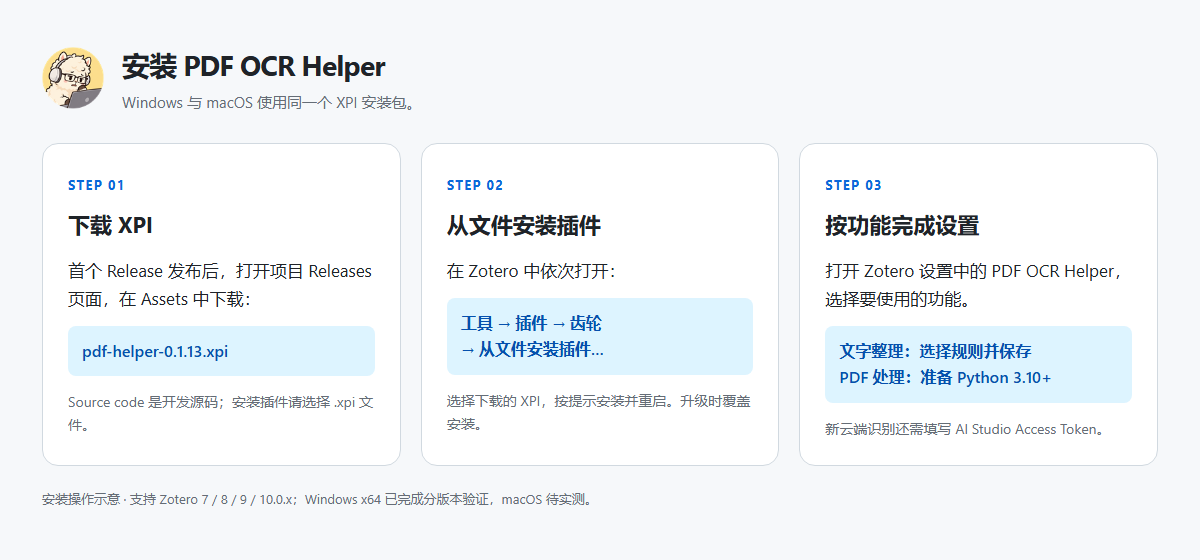
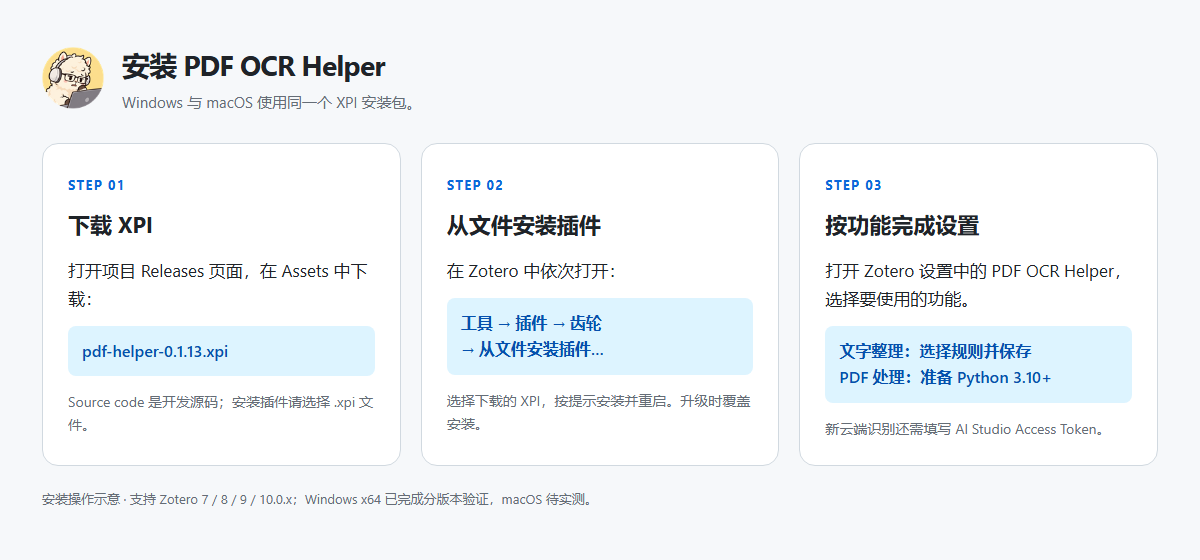
Finalize 0.1.13 release documentation

Changed region(s): [[0.0617, 0.4554, 0.3083, 0.5464]]

diff --git a/docs/COMMUNITY-SUBMISSION.md b/docs/COMMUNITY-SUBMISSION.md
@@ -1,6 +1,6 @@
 # Zotero 中文社区收录材料（待人工确认与提交）
 
-核实日期：2026-10-23。基础源码已推送至 GitHub 仓库，本次模板、兼容适配和文档修改尚未提交或推送；尚未发布 GitHub Release，未发出社区收录 Issue、PR 或正式申请。正式投稿前需再次复核下述社区流程。
+社区流程核实日期：2026-10-23。发布准备进度：2026-10-24。模板、兼容适配及教程等源码已推送至 GitHub，当前进行首发说明与资产定稿；GitHub Release 尚待维护者创建，未发出社区收录 Issue、PR 或正式申请。正式投稿前需再次复核下述社区流程。
 
 ## 核实到的实际流程
 
@@ -34,15 +34,15 @@
 
 **适用环境**：manifest 声明 Zotero 7.0–10.0.*；Windows x64 已实测 7.0.32、8.0.4、9.0.6、10.0.6。macOS Intel/Apple Silicon 为实现目标，原生验收尚未完成。PDF 处理需已安装 64 位 Python 3.10+，原流程建立独立依赖环境；仅文本整理和检查更新不需 Python。不能宣传为整个插件免 Python、离线 OCR、支持所有 Zotero 版本或已在 macOS 实测。
 
-**安装**：从该插件真实社区详情页下载正式 .xpi，在 Zotero 工具 → 插件中从文件安装。首次运行 PDF 处理按 [USAGE](USAGE.md) 配置 Python；新云端识别需用户自己的 AI Studio Token。云端识别涉及上传 PDF，纯文本整理和更新检查不上传文献。Token 不放入源码和安装包。
+**安装**：首发从本项目 GitHub Releases 下载 .xpi，在 Zotero 工具 → 插件中从文件安装；社区收录后再使用真实详情页下载入口。首次运行 PDF 处理按 [USAGE](USAGE.md) 配置 Python；新云端识别需用户自己的 AI Studio Token。云端识别涉及上传 PDF，纯文本整理和更新检查不上传文献。Token 不放入源码和安装包。
 
 **升级**：完成当前任务并保留恢复备份；从相同详情页下载适合所用 Zotero 版本的新版 .xpi，覆盖安装并按提示重启。检查更新不会自动下载、覆盖插件目录或执行安装。
 
-**版本日志**：候选 0.1.13 及 [CHANGELOG](../CHANGELOG.md)；正式版本与发布时间待确认。
+**版本日志**：首发版本 0.1.13，见 [CHANGELOG](../CHANGELOG.md)；实际发布时间以 GitHub Release 为准。
 
 **GitHub 源码**：[https://github.com/Philippyang21/zotero-pdf-helper](https://github.com/Philippyang21/zotero-pdf-helper)。
 
-**.xpi 下载**：目前只有本地 0.1.13 候选包。正式 GitHub Release、社区镜像及详情页尚未建立，不能提供虚构链接。
+**.xpi 下载**：[本项目 Releases](https://github.com/Philippyang21/zotero-pdf-helper/releases)。向社区提交前须确认 v0.1.13 已公开且能下载同版 XPI；社区镜像和详情页尚未建立。
 
 **许可证**：既有 AGPL-3.0，保持不变；依赖见 [THIRD_PARTY](THIRD_PARTY.md)。
 

diff --git a/docs/USAGE.md b/docs/USAGE.md
@@ -1,10 +1,10 @@
 # 安装与使用说明（Windows x64 / macOS）
 
-## 0.1.13 候选：PDF OCR Helper 与检查更新
+## 0.1.13：PDF OCR Helper 与检查更新
 
-本地候选已更名为 PDF OCR Helper，采用新的羊驼图标，支持 Zotero 7、8、9 与 10.0.x。Windows x64 已验证 7.0.32、8.0.4、9.0.6、10.0.6，macOS 仍待原生验收。旧版用户覆盖安装 pdf-helper-0.1.13.xpi，原插件 ID、设置、令牌及任务目录继续沿用。设置 → PDF OCR Helper → 高级与维护 → 检查更新，点击才查询；适用新版显示版本说明，经“前往中文社区下载”确认后打开本插件详情页，取消留在设置。下载 .xpi 后在工具 → 插件中从文件覆盖安装，并按提示重启。不卸载原插件。
+插件显示名称为 PDF OCR Helper，采用羊驼图标，支持 Zotero 7、8、9 与 10.0.x。Windows x64 已验证 7.0.32、8.0.4、9.0.6、10.0.6，macOS 仍待原生验收。旧版用户覆盖安装 pdf-helper-0.1.13.xpi，原插件 ID、设置、令牌及任务目录继续沿用。初次安装及后续更新从 GitHub Releases 手动下载 XPI，在工具 → 插件中从文件安装，并按提示重启。
 
-当前仓库、真实详情页及更新源尚未配置，点击会显示“检查更新尚未配置”，并非网络已接通或当前已是最新版本。不兼容的新版本只提示要求，不推荐下载。未配置或检查失败不影响 OCR、PDF 和文本整理。此功能不用 Python、不上传文献/令牌、不自动下载或安装。发布者配置步骤见 [发布指南](RELEASING.md)。
+当前客户端的仓库、真实详情页及更新源 URL 尚未配置，点击“检查更新”会显示“检查更新尚未配置”。这不影响 OCR、PDF 和文本整理。取得社区详情页并发布完整配置的新版本后，适用更新会经确认跳转社区详情页，由用户下载并安装；此功能不用 Python、不上传文献或令牌、不自动下载或安装。发布者配置步骤见 [发布指南](RELEASING.md)。
 
 Zotero 10 安装要求保留原 manifest 的 HTTPS update_url 占位；宿主自带更新检查可能尝试该预留域名。本次不修改宿主全局设置，也没有部署原生自动更新源。
 

diff --git a/docs/CHANGELOG-0.1.13.md b/docs/CHANGELOG-0.1.13.md
@@ -1,11 +1,13 @@
 # PDF OCR Helper 0.1.13
 
-2026-10-22，本地候选。
+首发版本说明。
 
-2026-10-23 在尚未发布的同一候选中接入 Zotero Plugin Template：新增 TypeScript 入口、生命周期与 Scaffold 构建，原功能通过适配层接入。README 增加功能示意、图文安装和当前界面示例。插件 ID、设置、令牌及任务路径保留。
+接入 Zotero Plugin Template：新增 TypeScript 入口、生命周期与 Scaffold 构建，原功能通过适配层接入。README 增加功能示意、图文安装、视频教程入口和当前界面示例。插件 ID、设置、令牌及任务路径保留。
 
-候选现支持 Zotero 7、8、9 与 10.0.x，已在 Windows x64 的 7.0.32、8.0.4、9.0.6、10.0.6 完成分版本原生验证与完整重启检查。启动钩子不再阻塞宿主的就绪流程；关闭插件时等待已开始的运行时初始化完成并清理。PDF 替换/恢复前等待阅读器实际完成关闭，超时则停止操作。实测范围与未覆盖项目见 [测试记录](TESTING.md)。
+本版本支持 Zotero 7、8、9 与 10.0.x，已在 Windows x64 的 7.0.32、8.0.4、9.0.6、10.0.6 完成分版本原生验证与完整重启检查。启动钩子不再阻塞宿主的就绪流程；关闭插件时等待已开始的运行时初始化完成并清理。PDF 替换/恢复前等待阅读器实际完成关闭，超时则停止操作。实测范围与未覆盖项目见 [测试记录](TESTING.md)。
 
 修复 0.1.12 图标仍带外圈白底的问题。圆外改为真正透明，保留圆内黄色背景、羊驼、耳机和电脑；主图标及 48/96px 图标均已替换。圆内原图颜色保留，圆周做平滑透明处理。
 
 软件显示名称更新为 PDF OCR Helper，设置界面及原有功能延续 0.1.12。插件 ID 与已有设置、令牌和任务路径继续沿用。覆盖安装 pdf-helper-0.1.13.xpi 后重启 Zotero。
+
+中文社区尚未收录，插件内手动检查更新尚未启用。初次安装及后续更新从 GitHub Releases 手动下载 XPI；GitHub 首发不会启用独立的手动更新清单。

diff --git a/docs/COMPATIBILITY.md b/docs/COMPATIBILITY.md
@@ -1,6 +1,6 @@
 # Zotero 版本兼容性
 
-核对日期：2026-10-23。候选安装声明为 `Zotero 7.0–10.0.*`。以下为 Windows x64 的实际测试版本；同一大版本的其他补丁未逐一运行，macOS 尚未完成原生验收。
+核对日期：2026-10-23。本版本安装声明为 `Zotero 7.0–10.0.*`。以下为 Windows x64 的实际测试版本；同一大版本的其他补丁未逐一运行，macOS 尚未完成原生验收。
 
 | Zotero 实测版本 | Mozilla 平台 | 原生核心流程 | 完整退出与重启 |
 | --- | --- | --- | --- |

diff --git a/CHANGELOG.md b/CHANGELOG.md
@@ -1,6 +1,8 @@
 # 更新日志
 
-## 0.1.13 — 2026-10-22（本地候选，未发布）
+## 0.1.13
+
+首个公开版本。安装与使用说明见 [README](README.md)。
 
 - 显示名称更新为 PDF OCR Helper，覆盖插件管理器、设置入口、菜单、任务窗口和通知；沿用原插件 ID 与已有配置。
 - 2026-10-23：迁入 Zotero Plugin Template 的 TypeScript 入口、生命周期和 Scaffold 构建流程，保留原插件 ID、设置与任务路径；重做图文 README。
